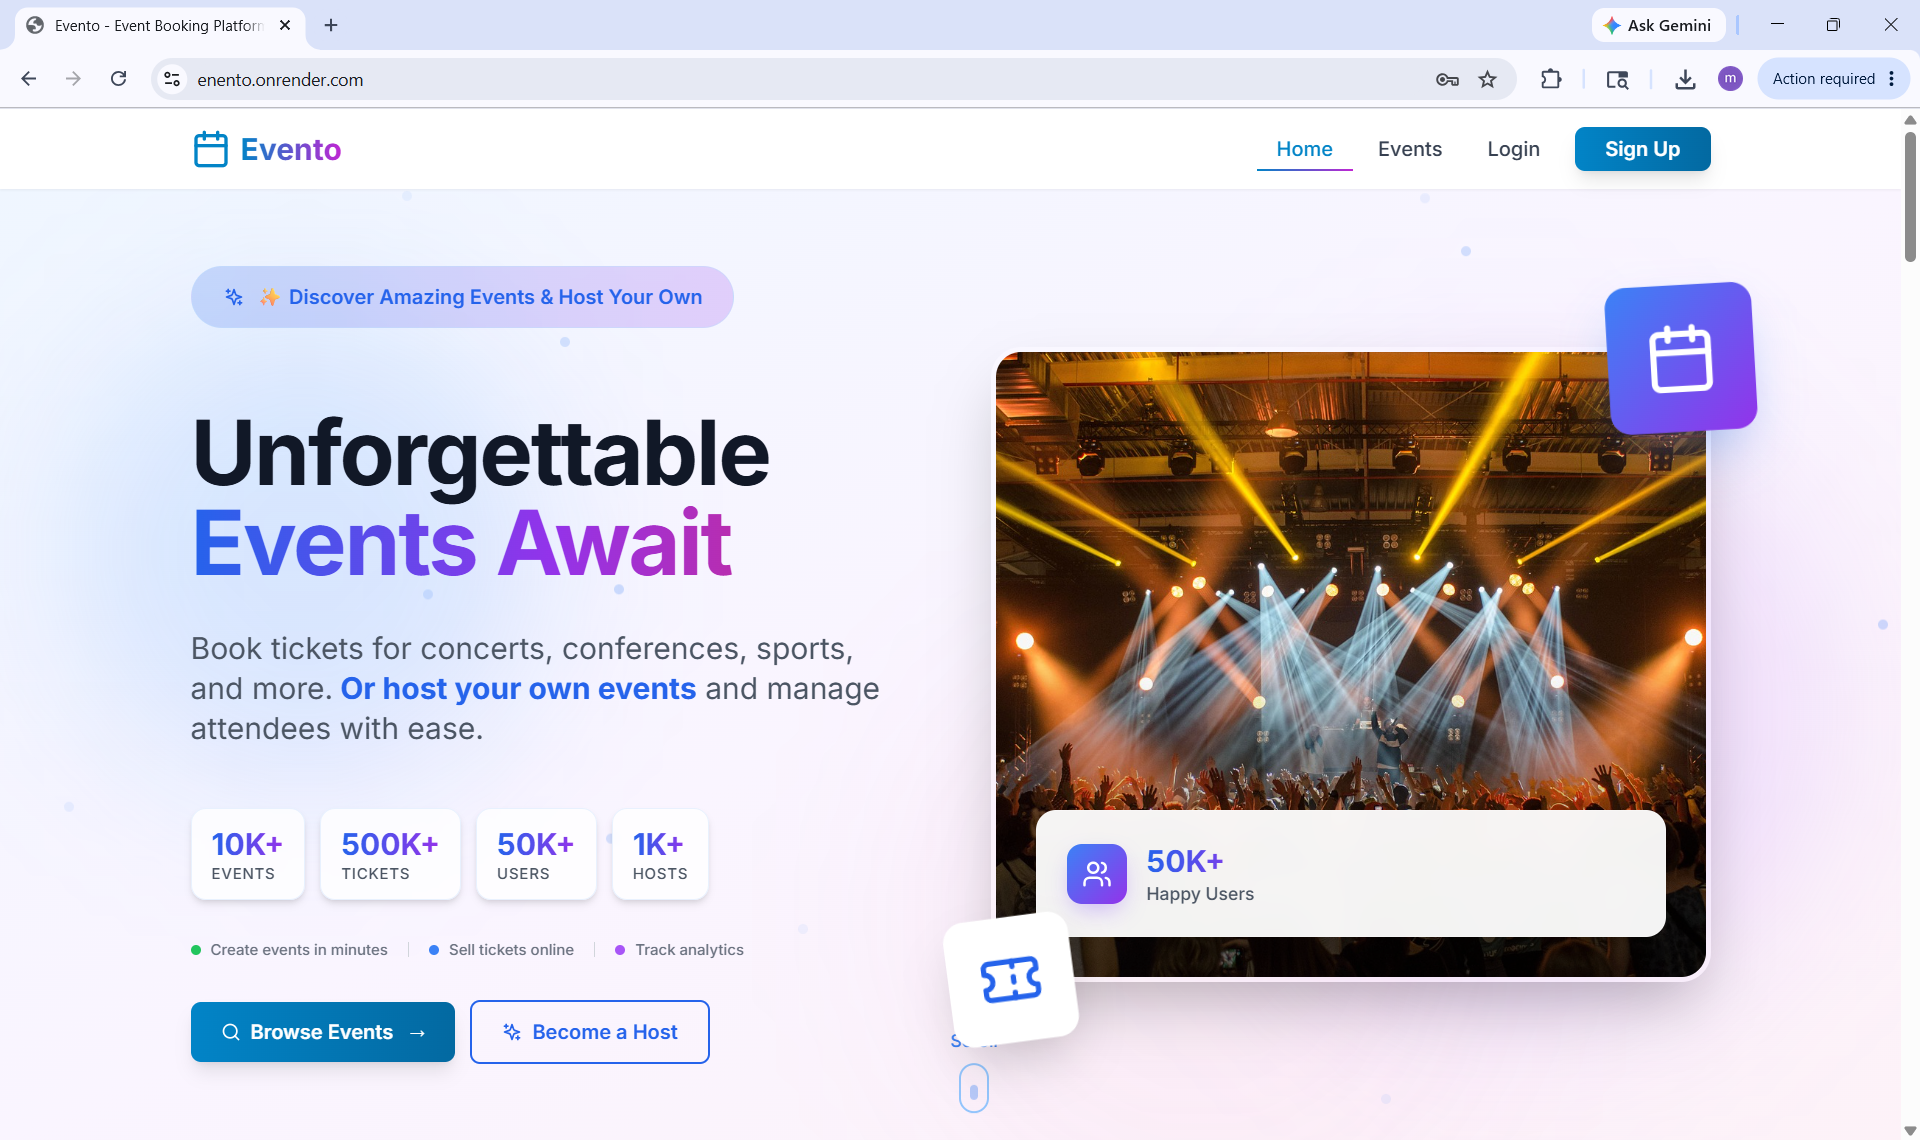
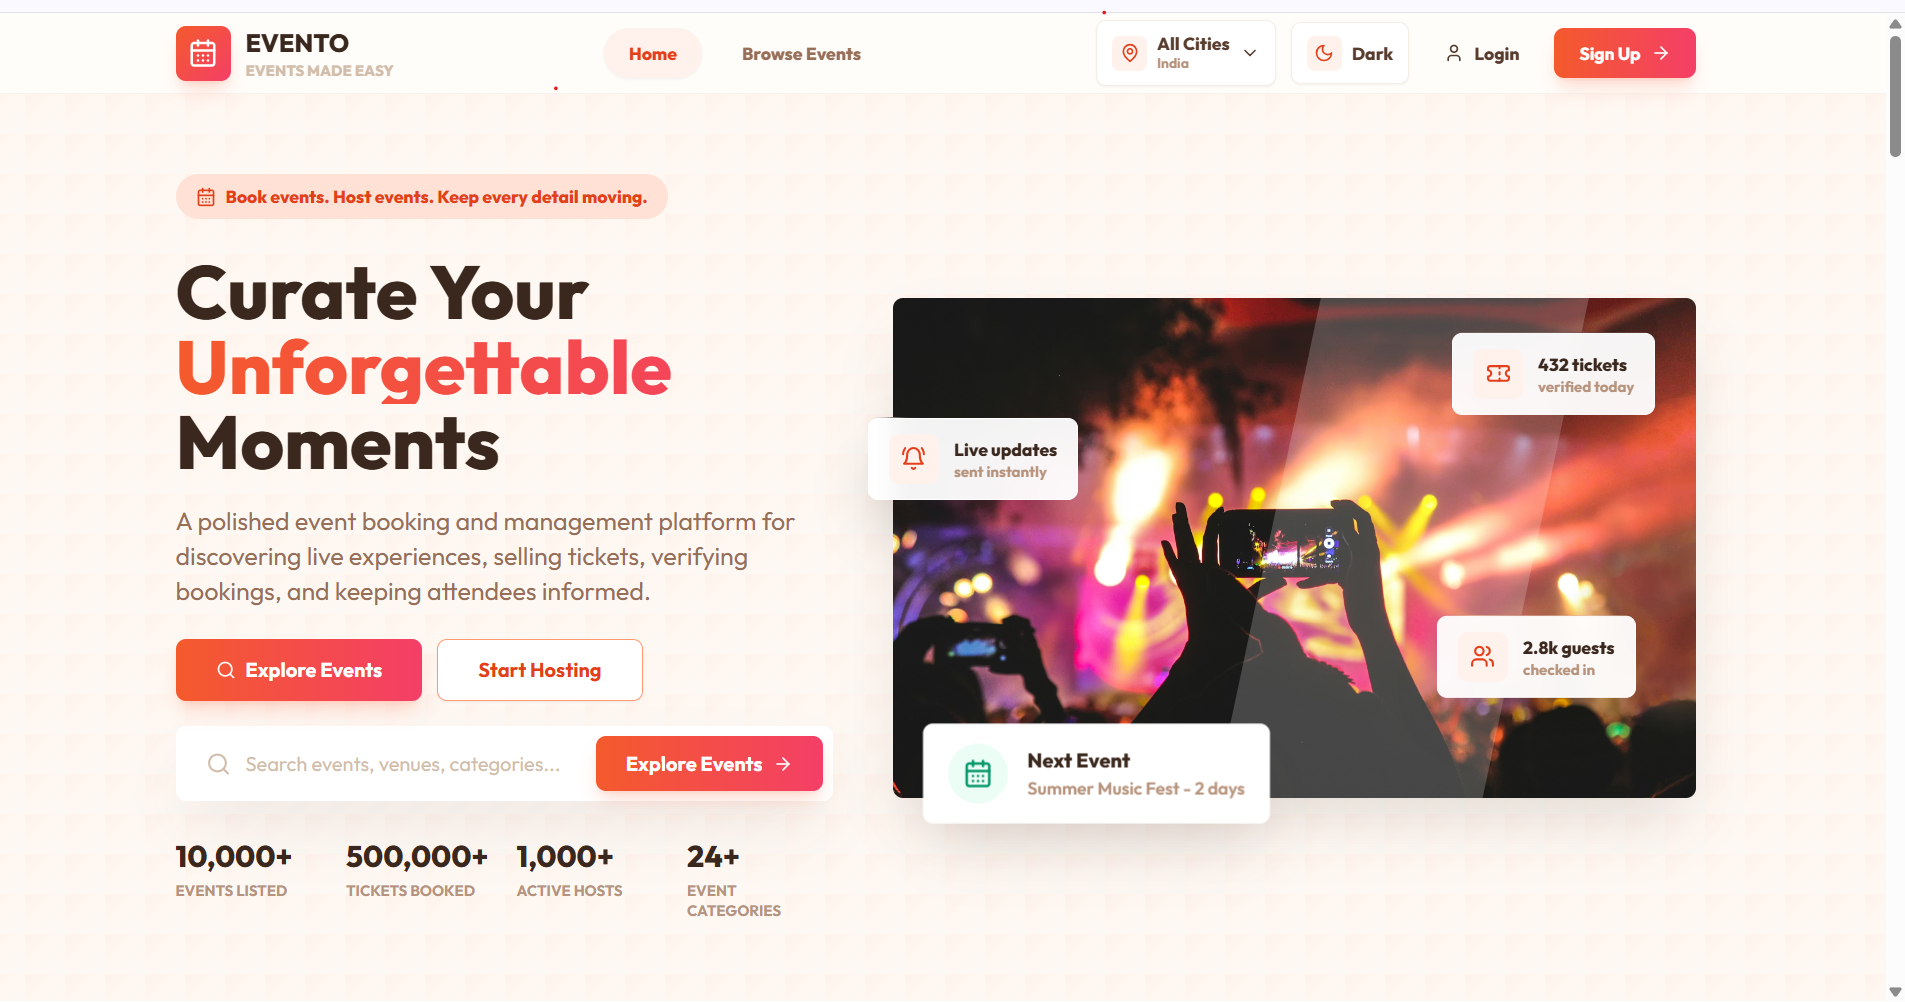
Update featured project sequence

diff --git a/src/components/portfolio/Projects.jsx b/src/components/portfolio/Projects.jsx
@@ -3,11 +3,14 @@ import { useDispatch, useSelector } from "react-redux";
 import { motion, AnimatePresence } from "framer-motion";
 import {
   CalendarCheck,
+  BookOpen,
   ExternalLink,
+  Film,
   Github,
   HeartPulse,
+  Home,
   Hospital,
-  MonitorSmartphone,
+  MessageCircle,
   Search,
   Star,
 } from "lucide-react";
@@ -20,8 +23,8 @@ const projects = [
   {
     title: "MediCore - Hospital Management System",
     description:
-      "Scalable full-stack hospital management system with multi-role workflows, OTP verification, optimized REST APIs, middleware layers and modular architecture.",
-    tech: ["React", "Node.js", "Express", "MongoDB", "shadcn/ui", "Multer", "Cloudinary"],
+      "Full-stack hospital management system with patient, doctor and admin portals, OTP auth, appointments, records, lab services, billing, emergency cases, reports, notifications and PDF documents.",
+    tech: ["React", "Node.js", "Express.js", "MongoDB", "JWT", "Multer", "Cloudinary", "PDFKit"],
     github: "https://github.com/mahendra0011/mediCore.git",
     demo: "https://medicore-main-1.onrender.com",
     category: "Full Stack",
@@ -33,8 +36,8 @@ const projects = [
   {
     title: "EventO - Event Booking Platform",
     description:
-      "Full-stack event booking platform with secure authentication, OTP verification, role-based access control and a polished event discovery flow.",
-    tech: ["React", "Tailwind CSS", "Node.js", "Express", "MongoDB", "ReactBits"],
+      "Event booking platform for public discovery, ticket booking with OTP verification, host dashboards, attendee messaging, support tickets, admin controls, reports and Render-ready deployment.",
+    tech: ["React", "Tailwind CSS", "Node.js", "Express.js", "MongoDB", "OTP", "Reports"],
     github: "https://github.com/mahendra0011/EventO",
     demo: "https://enento.onrender.com",
     category: "Full Stack",
@@ -45,32 +48,65 @@ const projects = [
   {
     title: "MindSupport - Mental Wellness Platform",
     description:
-      "Mental wellness and counselling platform with user, counsellor and admin dashboards for session booking, chat, payments and wellness tracking.",
-    tech: ["React", "Tailwind CSS", "Node.js", "Express", "MongoDB", "shadcn/ui"],
-    github: "https://github.com/mahendra0011",
+      "JavaScript-only, MongoDB-only counselling platform with counsellor discovery, role dashboards, verification, scheduling, Google Meet support, secure chat, wellness tracking, payments, reviews and admin moderation.",
+    tech: ["JavaScript", "React", "Node.js", "Express.js", "MongoDB", "Socket.IO", "Payments"],
     category: "Full Stack",
     Icon: HeartPulse,
+    image: "/projects/mindsupport.png",
+    imageAlt: "MindSupport mental wellness platform landing page screenshot",
   },
   {
-    title: "LostAndFound",
+    title: "MoviX - Movie Ticket Booking Platform",
     description:
-      "MERN application that streamlines reporting and recovery of lost items with secure authentication and a clean Material UI experience.",
-    tech: ["React", "Tailwind CSS", "Node.js", "Express", "MongoDB", "Material UI"],
+      "Full-stack movie ticket booking platform for browsing movies, coming-soon releases, seat selection, ticket booking, theater management and admin or owner workflows.",
+    tech: ["React", "Node.js", "Express.js", "MongoDB", "Cloudinary", "JWT"],
+    category: "Full Stack",
+    Icon: Film,
+    image: "/projects/movix.png",
+    imageAlt: "MoviX movie ticket booking platform landing page screenshot",
+  },
+  {
+    title: "RentPE - Room Rental Marketplace",
+    description:
+      "Room rental marketplace for students, interns, job seekers and movers. Seekers compare PGs, hostels, flats and rooms while owners publish listings using city, area, landmark, title, amenities, rules and descriptions.",
+    tech: ["React", "Node.js", "Express.js", "MongoDB", "Search", "Marketplace"],
+    category: "Full Stack",
+    Icon: Home,
+    image: "/projects/rentpe.png",
+    imageAlt: "RentPE room rental marketplace landing page screenshot",
+  },
+  {
+    title: "TempTalk - Anonymous Chat Platform",
+    description:
+      "Privacy-focused anonymous chat platform with encrypted messaging, real-time Socket.IO rooms, media sharing, temporary chat rooms, PWA and Android support, deep links and QR invites.",
+    tech: ["React", "Express.js", "Socket.IO", "MongoDB", "PWA", "Android"],
+    demo: "https://temptalk-1.onrender.com",
+    category: "Full Stack",
+    Icon: MessageCircle,
+    image: "/projects/temptalk.png",
+    imageAlt: "TempTalk anonymous chat platform landing page screenshot",
+  },
+  {
+    title: "StudyBuddy - AI Study Platform",
+    description:
+      "AI-powered study platform using Gemini AI to generate structured notes, summarize PDFs and YouTube lectures, manage study tasks and organize personalized content libraries with secure authentication.",
+    tech: ["React", "Node.js", "Express.js", "MongoDB", "Gemini AI", "PDF", "YouTube"],
+    category: "Full Stack",
+    Icon: BookOpen,
+    image: "/projects/studybuddy.png",
+    imageAlt: "StudyBuddy AI study platform landing page screenshot",
+  },
+  {
+    title: "LostAndFound - Recovery Platform",
+    description:
+      "Full-stack MERN application for reporting, searching and recovering lost items with JWT authentication, image uploads, advanced search and filtering, item status management and responsive recovery workflows.",
+    tech: ["React", "Tailwind CSS", "Node.js", "Express.js", "MongoDB", "JWT", "Image Uploads"],
     github: "https://github.com/mahendra0011/Lost-and-Found-Website.git",
     demo: "https://lost-and-found-xlvq.onrender.com/",
     category: "Full Stack",
     Icon: Search,
     image: "/projects/lost-and-found.png",
     imageAlt: "LostAndFound platform landing page screenshot",
-  },
-  {
-    title: "Portfolio Showcase",
-    description:
-      "Responsive developer portfolio built with HTML, CSS, JavaScript, React, Redux, Tailwind CSS, shadcn/ui and ReactBits-style interactions.",
-    tech: ["HTML", "CSS", "JavaScript", "React", "Redux", "Tailwind CSS", "shadcn/ui", "ReactBits"],
-    demo: "#home",
-    category: "Frontend",
-    Icon: MonitorSmartphone,
   },
 ];
 
